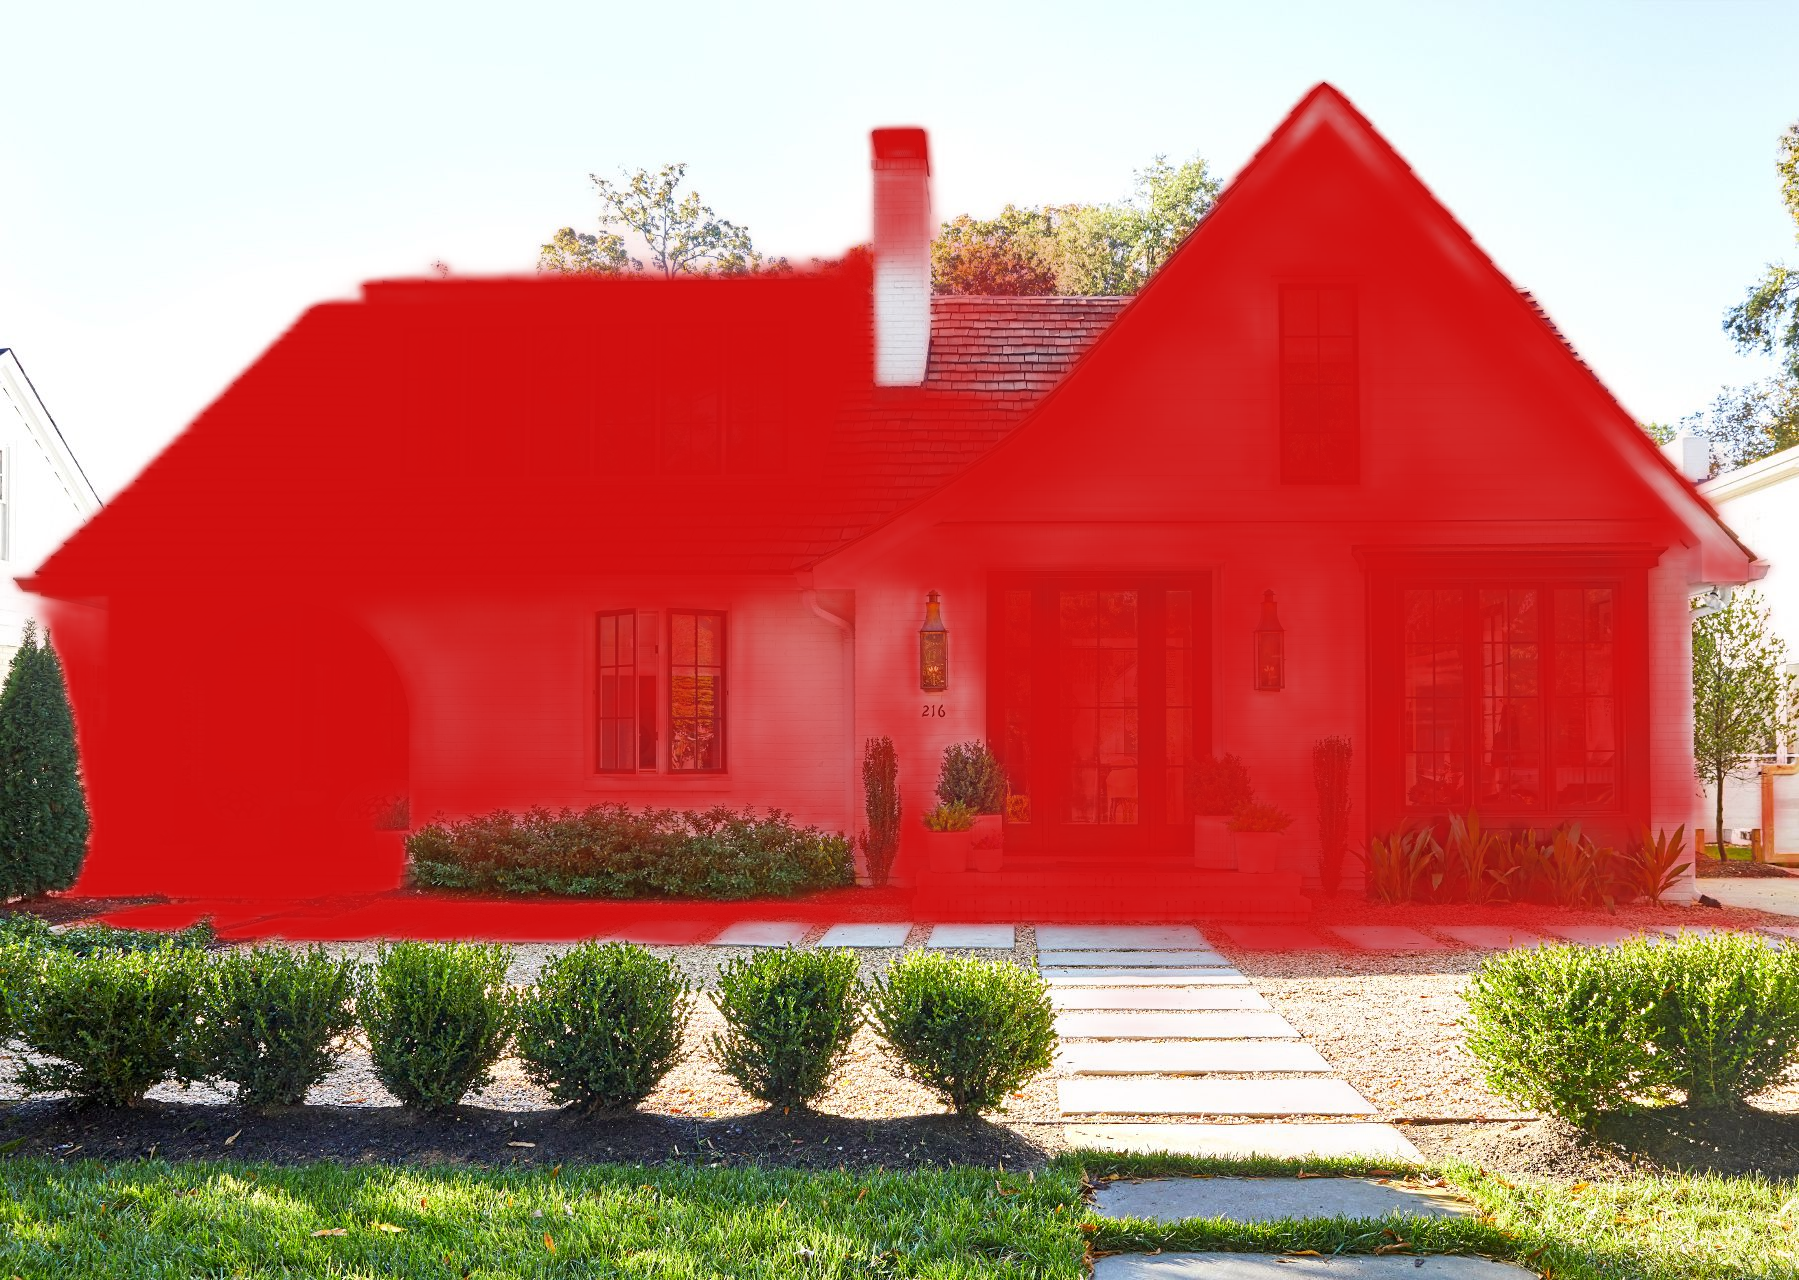
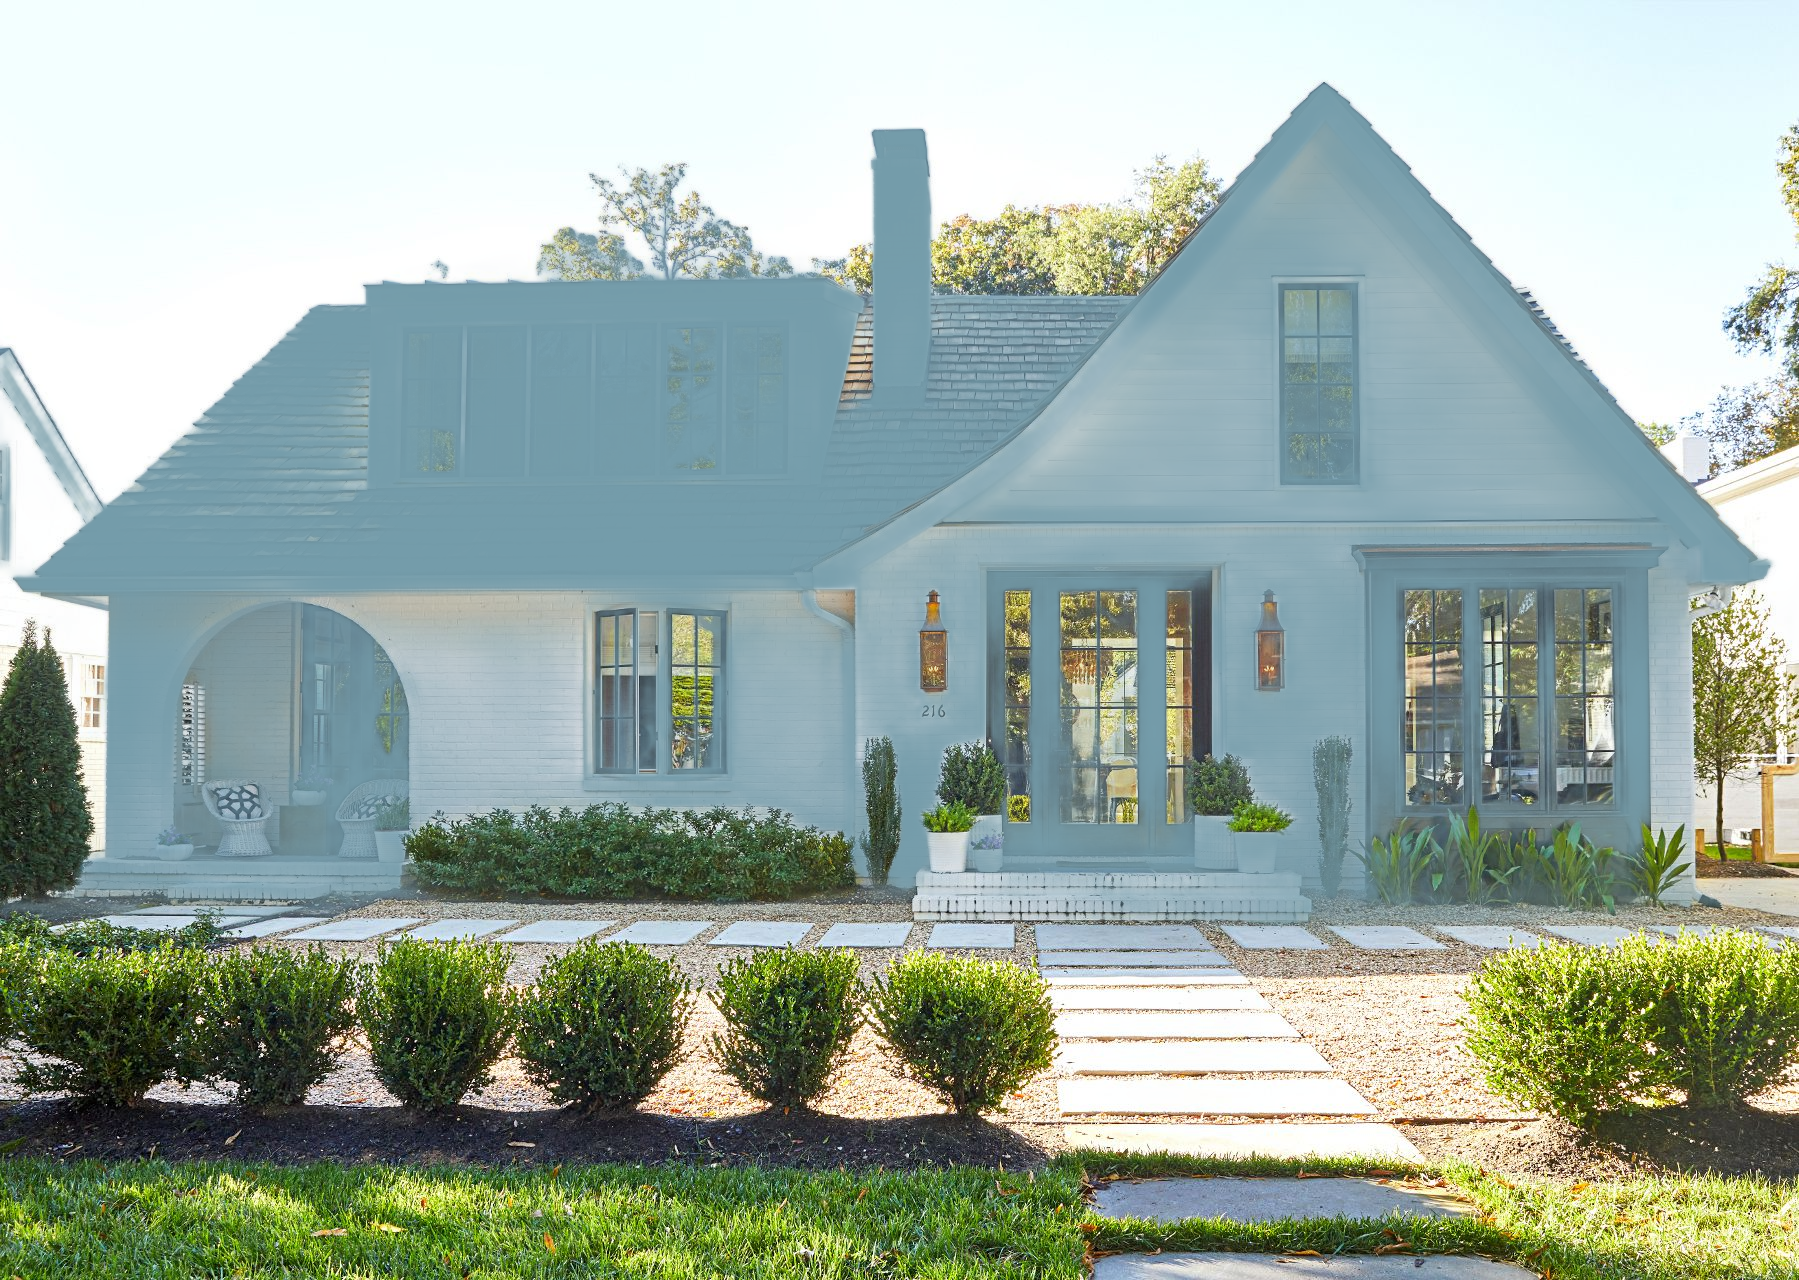
House recolor app with rembg

diff --git a/app.py b/app.py
@@ -4,6 +4,9 @@ from gyanmai.utils.color_ops import recolor_house
 from gyanmai.utils.segmentation import extract_house, merge_recolor
 from gyanmai import branding
 import os
+import cv2
+import numpy as np
+from PIL import Image
 
 # Branding / header
 branding.show_header()
@@ -12,14 +15,40 @@ branding.show_header()
 uploaded = st.file_uploader("📤 Upload your house image", type=["png", "jpg", "jpeg"])
 
 # Color picker
-color = st.color_picker("🎨 Pick a color for walls", "#ff0000")
+color = st.color_picker("🎨 Pick a color for walls", "#749CAA")
+
+# Model selection
+model_options = ["u2net", "u2netp", "isnet-general-use"]
+selected_model = st.sidebar.selectbox("Select Segmentation Model", model_options)
+
+# Enhance image option
+enhance = st.checkbox("Enhance Image?")
 
 if uploaded:
     # Load image
     image = load_image(uploaded)
 
+    # Preprocess if enabled
+    if enhance:
+        try:
+            # Convert PIL image to OpenCV format
+            img_cv = cv2.cvtColor(np.array(image), cv2.COLOR_RGB2BGR)
+            # Enhance contrast (CLAHE)
+            clahe = cv2.createCLAHE(clipLimit=2.0, tileGridSize=(8,8))
+            lab = cv2.cvtColor(img_cv, cv2.COLOR_BGR2LAB)
+            lab[:,:,0] = clahe.apply(lab[:,:,0])
+            img_cv = cv2.cvtColor(lab, cv2.COLOR_LAB2BGR)
+            # Sharpen edges
+            kernel = np.array([[-1,-1,-1], [-1,9,-1], [-1,-1,-1]])
+            img_cv = cv2.filter2D(img_cv, -1, kernel)
+            # Convert back to PIL image
+            image = Image.fromarray(cv2.cvtColor(img_cv, cv2.COLOR_BGR2RGB))
+        except Exception as e:
+            st.error(f"Error during image enhancement: {e}")
+            image = load_image(uploaded)  # Fallback to original if preprocessing fails
+
     # Step 1: Extract only house (foreground)
-    house_only = extract_house(image)
+    house_only = extract_house(image, selected_model)
 
     # Step 2: Apply recoloring to the house
     recolored_house = recolor_house(house_only, color)
@@ -44,3 +73,13 @@ if uploaded:
             file_name="gyanmai_recolored.png",
             mime="image/png"
         )
+
+# Footer branding
+st.markdown(
+    """
+    ---
+    👨💻 Developed by **Suraj Kumar Pandey**  
+    🎓 Under mentorship of **Dr. Tauseef Ahmad (HOD IT)**  
+    """,
+    unsafe_allow_html=True
+)

diff --git a/gyanmai/utils/segmentation.py b/gyanmai/utils/segmentation.py
@@ -1,15 +1,28 @@
 # gyanmai/utils/segmentation.py
 
-from rembg import remove
+from rembg import new_session, remove
 from PIL import Image
 import numpy as np
+import cv2
 
-def extract_house(image: Image.Image) -> Image.Image:
+def extract_house(image: Image.Image, model_name: str = "isnet-general-use") -> Image.Image:
     """
-    Extracts house (foreground) from background using rembg.
-    Returns a transparent PNG of house only.
+    Extracts house (foreground) from background using rembg with a specific model and refines mask.
     """
-    return remove(image)
+    # Initialize session with the specified model
+    session = new_session(model_name)
+    # Perform removal using the session
+    rough_fg = remove(image, session=session)
+    data = np.array(rough_fg)
+
+    # Refine mask
+    alpha = data[:, :, 3]
+    kernel = np.ones((3,3), np.uint8)
+    alpha = cv2.morphologyEx(alpha, cv2.MORPH_CLOSE, kernel)
+    alpha = cv2.morphologyEx(alpha, cv2.MORPH_OPEN, kernel)
+    alpha = cv2.GaussianBlur(alpha, (5,5), 0)
+    data[:, :, 3] = alpha
+    return Image.fromarray(data, "RGBA")
 
 def merge_recolor(original: Image.Image, recolored: Image.Image) -> Image.Image:
     """

diff --git a/gyanmai/utils/color_ops.py b/gyanmai/utils/color_ops.py
@@ -9,8 +9,7 @@ def hex_to_rgb(hex_color: str):
 
 def recolor_house(image: Image.Image, hex_color: str) -> Image.Image:
     """
-    Recolors the non-transparent parts of the house-only image.
-    Works together with rembg mask.
+    Recolors the non-transparent parts of the house-only image, preserving windows/doors.
     """
     img = image.convert("RGBA")
     data = np.array(img)
@@ -20,9 +19,11 @@ def recolor_house(image: Image.Image, hex_color: str) -> Image.Image:
 
     # Apply color only where alpha > 0 (house pixels)
     mask = data[:, :, 3] > 0
-    data[mask, 0] = r
-    data[mask, 1] = g
-    data[mask, 2] = b
+    # Exclude sky-like areas (e.g., blue windows) based on color range
+    exclude_mask = (data[:, :, 0] > 200) & (data[:, :, 1] > 200) & (data[:, :, 2] < 100)
+    final_mask = mask & ~exclude_mask
+    data[final_mask, 0] = r
+    data[final_mask, 1] = g
+    data[final_mask, 2] = b
 
     return Image.fromarray(data, "RGBA")
-
